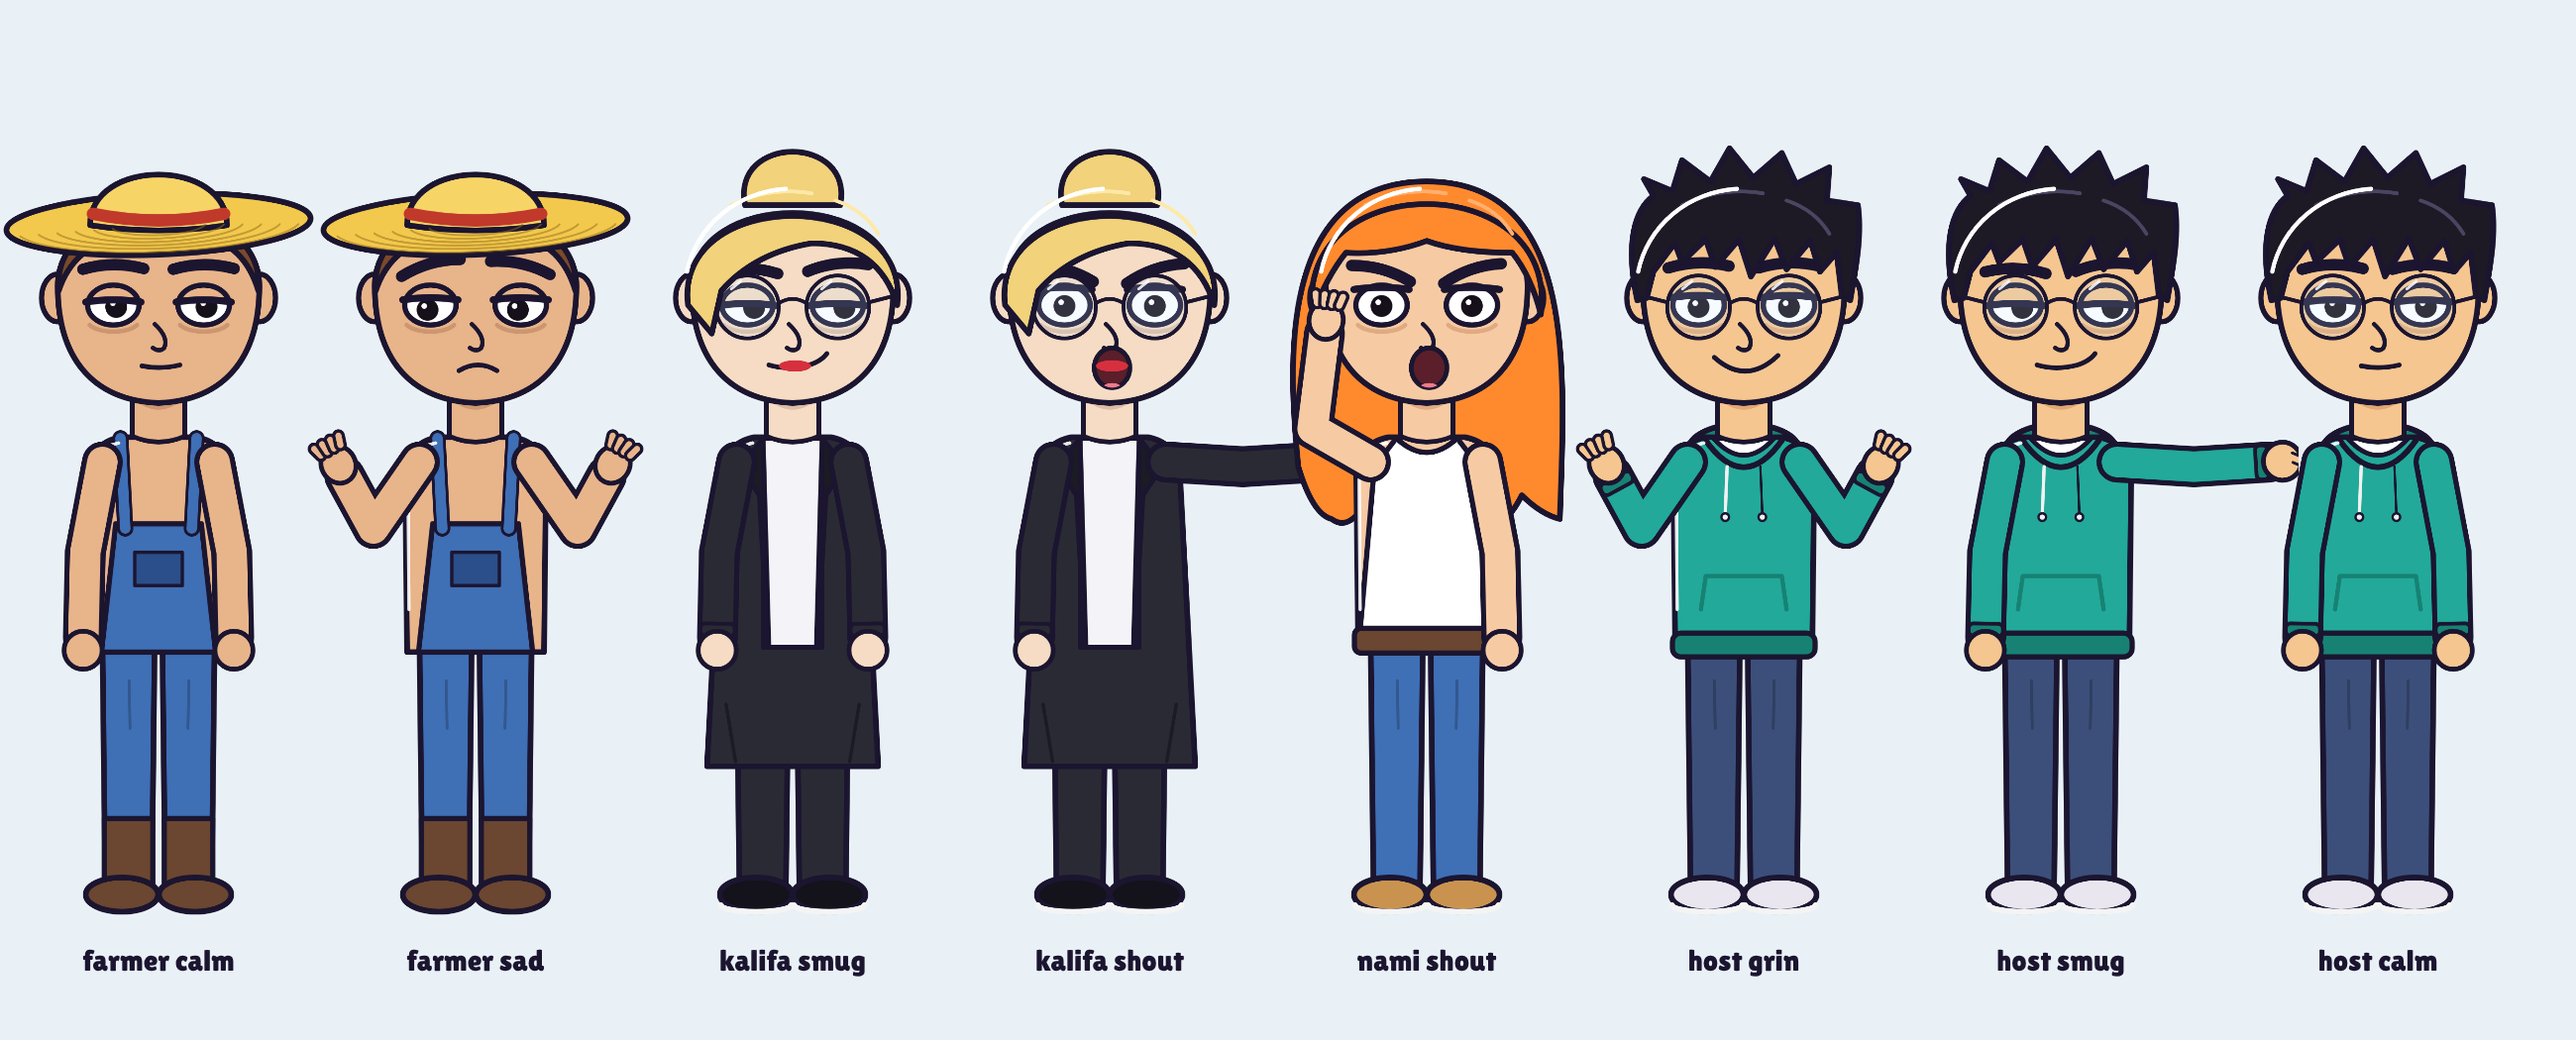
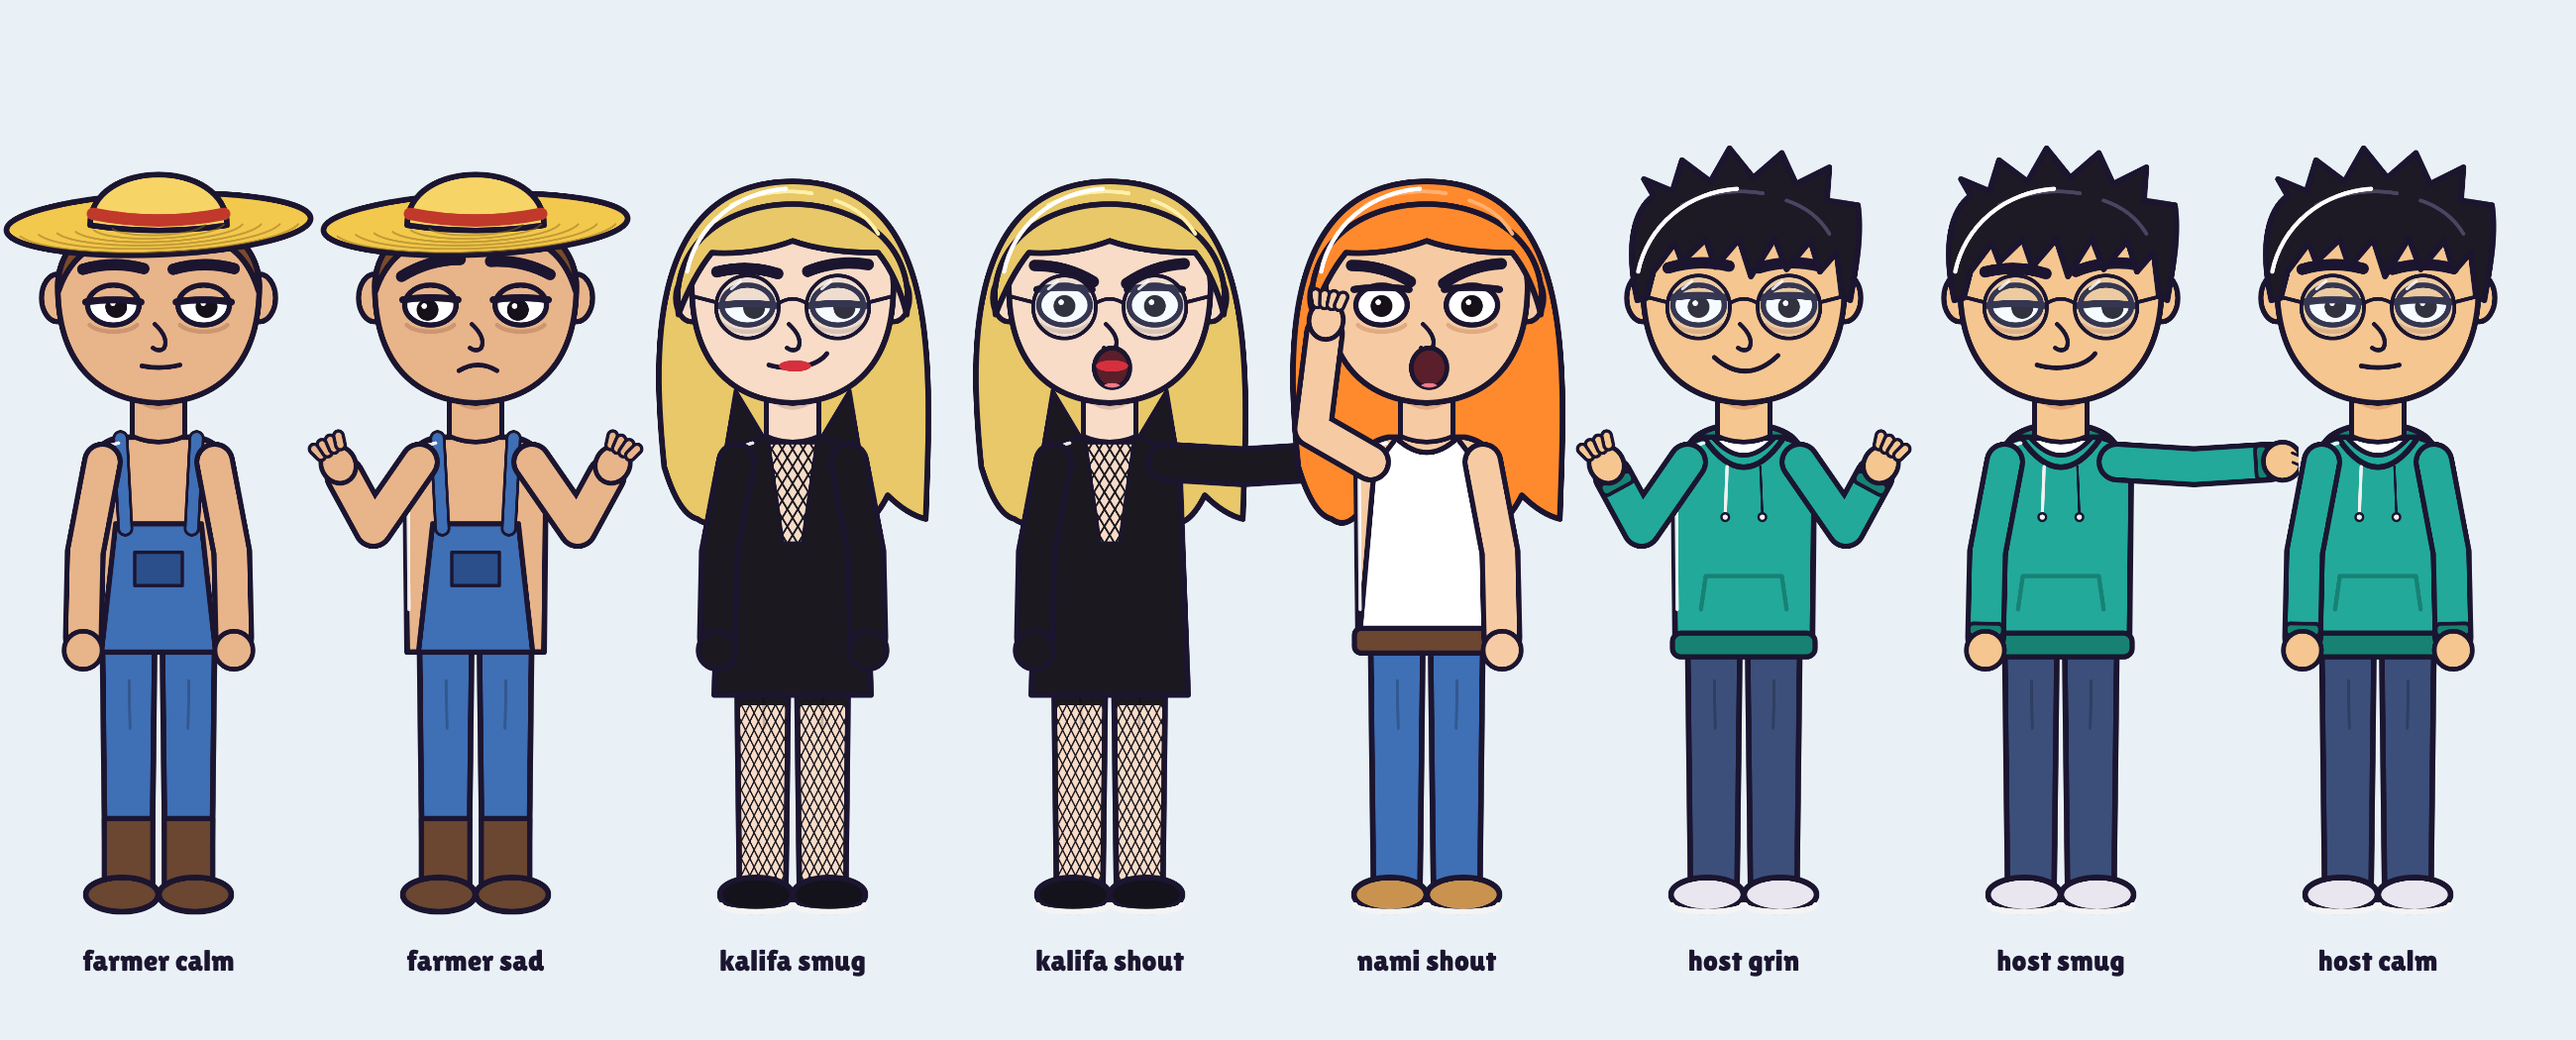
Bubble-Bubble short: story, sets, PLAN, contact sheet, voice split
Claude-Session: https://claude.ai/code/session_01LedSfqc1zbW4UvWfiqXE3c

Changed region(s): [[0.2492, 0.1219, 0.4985, 0.64], [0.3738, 0.6705, 0.4673, 0.8533], [0.2492, 0.6705, 0.3427, 0.8533]]

diff --git a/shorts/bubble/PLAN.md b/shorts/bubble/PLAN.md
@@ -1,0 +1,68 @@
+# PLAN: 1. Bubble-Bubble Fruit (Awa Awa no Mi) (1. Bubble-Bubble Fruit (Awa Awa no Mi))
+
+9:16, 1080×1920, 30 fps, **46.9 s**, timed to your Fish Audio take (split into lines with tools/align.py, used as-is). No background music.
+
+**Structure (no forced forms):** techniques + peak (no forced forms). Pedestals read .
+
+## 1. Fruit design sheet
+
+Drawn from the design you sent (refs/batch3). Still: `review/fruit_sheet.png`.
+
+## 2. Script and fact check
+
+| Line | Text |
+|---|---|
+| hook | You take a bite#red of a weird lavender#purple fruit. |
+| calm | Don't panic,#red that's just a Devil#purple Fruit.#purple |
+| sea | Out of every fruit in the sea,#blue |
+| name | you got the Bubble-Bubble#pink Fruit,#pink |
+| type | a Paramecia#orange that makes soap bubbles#blue come out of your body. |
+| power1 | First, your bubbles clean anything#blue spotless#green in seconds. |
+| power2 | Then the bubbles wash away people's strength,#orange so they go weak and slippery.#pink |
+| power3 | You can even make the ground#orange so slippery#gold that nobody can stand up. |
+| peak | Your strongest#blue move is Golden Awa: a giant wave of bubbles#pink that cleans an enemy right out of power. |
+| twist | But there's#green a catch.#orange |
+| truth | Once the bubbles#orange wash off, the strength#blue comes right back. |
+| users | Kalifa, the CP9 secretary,#gold used it against#green Nami at Enies Lobby. |
+| joke | Users of this fruit never need a bath.#orange |
+| outro | Which fruit#pink do you want next?#gold Follow for more. |
+
+Facts used (One Piece Wiki via search):
+- Fruit look from the user's oparchive screenshots (refs/batch3/DESIGNS.md)
+
+## 3. Cast (all full-body)
+
+- **Host:** same as before.
+
+- Sheet: `review/cast_sheet.png`.
+
+## 4. Sets (all new)
+
+ Only the desk room and the purple outro rays repeat.
+Sheet: `review/bg_sheet.png`. Contact sheet: `review/contact_sheet.jpg`.
+
+## 5. Shot list
+
+| # | Frames | Narration | Background | Camera | Picture and effects | Banner | SFX |
+|---|---|---|---|---|---|---|---|
+| 1 | 0–49 | You | desk | wide, push-in 1.00→1.07 | Hook (desk room): host sips coffee, a flat lavender fruit covered in swirls drops onto the plate, wide-eyed shock with !? |  | fall, shock, sip, thunk |
+| 2 | 50–114 | take a bite of a weird lavender fruit. | desk | close-up, push-in 1.40→1.50 | The bite (desk close-up): dip, bite, disgusted face; soap bubbles float out of his mouth; pink YOUR FRUIT banner | YOUR FRUIT (pink) | crunch, shimmer, yuck |
+| 3 | 115–190 | Don't panic, that's just a Devil Fruit. | s3:bb_laundry | wide, push-in 1.06→1.12 | Don't panic (laundromat): the host calms down and holds up the bitten fruit |  | shimmer, whoosh |
+| 4 | 191–246 | Out of every fruit in the sea, you got | rays:lavender | wide, push-in 1.00→1.10, roll 2° | Out of every fruit: lavender rays, pink ゴ marks, spinning globe, dark unnamed fruit silhouettes |  | rumble, whoosh |
+| 5 | 247–321 | the Bubble-Bubble Fruit, a Paramecia | s3:bb_spa | medium, push-in 1.05→1.16 | Fruit reveal (bubble spa): the fruit spins in a halo; pink BUBBLE-BUBBLE FRUIT banner | BUBBLE-BUBBLE FRUIT (pink) | ding, shimmer, whoosh |
+| 6 | 322–337 | that makes | s3:bb_bath | wide, push-in 1.00→1.08 | Soap body (bathroom tiles): bubbles pour out of the host's hands and shoulders |  | shimmer |
+| 7 | 338–424 | soap bubbles come out of your body. | s3:bb_stage | wide, push-in 1.00→1.08 | Techniques stage (bubble stage): CLEAN, WEAKEN, SLIPPERY, GOLDEN pop onto pedestals, the bar fills, LEVEL UP |  | levelup, pop, whoosh |
+| 8 | 425–476 | First, your bubbles clean anything spotless | s3:bb_kitchen | wide, push-in 1.05→1.10 | Power 1 (kitchen): the farmer's muddy boots and a grimy pot get a blast of bubbles and come out sparkling; pink SPOTLESS banner | SPOTLESS (pink) | shimmer |
+| 9 | 477–502 | in seconds. | s3:bb_kitchen | close-up, push-in 1.30→1.38 | Power 1 close (same kitchen): the farmer shines, sparkles everywhere |  | ding |
+| 10 | 503–596 | Then the bubbles wash away people's strength, so they go weak and | s3:bb_gym | wide, push-in 1.00→1.06 | Power 2 evolve (gym with weights): clean icon becomes the weaken icon; bubbles cover the farmer and he drops his dumbbell, arms limp; blue WEAKENED banner | STRENGTH DRAINED (blue) | evolve, shimmer, whoosh |
+| 11 | 597–626 | slippery. | s3:bb_gym | close-up, push-in 1.30→1.38, roll 3° | Power 2 slippery (same gym): the weak farmer can't even hold on, his hands slide right off |  | evolve, thunk |
+| 12 | 627–733 | You can even make the ground so slippery that nobody can stand up. | s3:bb_rink | wide, push-in 1.00→1.08 | Power 3 evolve (frozen lake rink): weaken icon becomes the slippery icon; the host bubbles the ground and the farmer slips, spins and lands flat; gold SLIPPERY banner | SLIPPERY GROUND (gold) | evolve, shimmer, thunk, whoosh |
+| 13 | 734–807 | Your strongest move is Golden Awa: a giant | s3:bb_carwash | wide, push-in 1.00→1.08 | Peak (car wash): slippery icon gives way to the golden icon, gold halo; gold GOLDEN AWA banner; a towering wave of golden bubbles rises behind the host | GOLDEN AWA (gold) | charge, evolve |
+| 14 | 808–912 | wave of bubbles that cleans an enemy right out of power. | s3:bb_carwash | wide, push-in 1.00→1.06, roll -2° | Peak crash (same car wash): the golden wave crashes over the farmer; impact star, shake |  | splash |
+| 15 | 913–957 | But there's a catch. | s3:bb_drain | medium, push-in 1.00→1.28, roll 4° **twist** | Twist (drain room with pipes): bubbles circle down a drain; push-in with roll, low sting; red CATCH banner | THE CATCH (red) | splash, sting |
+| 16 | 958–1051 | Once the bubbles wash off, the strength comes right back. | s3:bb_drain | medium, push-in 1.05→1.15, roll -2° | Strength back (same drain room, wide): the bubbles rinse away and the farmer flexes, strong again; green STRENGTH BACK banner | STRENGTH BACK (green) | levelup, splash |
+| 17 | 1052–1112 | Kalifa, the CP9 secretary, used it | s3:bb_justice | wide, push-in 1.05→1.12 | Kalifa (Enies Lobby courthouse): Kalifa in her suit, a stream of bubbles curling off her hand; blue CP9 banner | KALIFA, CP9 (blue) | shimmer, whoosh |
+| 18 | 1113–1177 | against Nami at Enies Lobby. | s3:bb_office | wide, push-in 1.00→1.08 | Versus Nami (secretary office): Nami swings her Clima-Tact through the bubbles; red VS NAMI banner | VS NAMI (red) | impact, zap |
+| 19 | 1178–1260 | Users of this fruit never need a bath. | s3:bb_bathroom | wide, push-in 1.05→1.12 | Joke (bathroom): the host steps out of a cloud of his own bubbles, already sparkling clean; pink NO BATH banner | NO BATH NEEDED (pink) | jokesting, shimmer |
+| 20 | 1261–1345 | Which fruit do you want next? Follow for more. | rays:purple | wide, push-in 1.00→1.10 | Outro (purple rays): host with big ? marks, the fruit bouncing in; pink NEXT? banner | NEXT? (pink) | pop, whoosh |
+| 21 | 1346–1407 | (no voice) | desk | medium, push-in 1.12→1.18 | Back in the desk room: host sips coffee, steam rising |  | sip |
